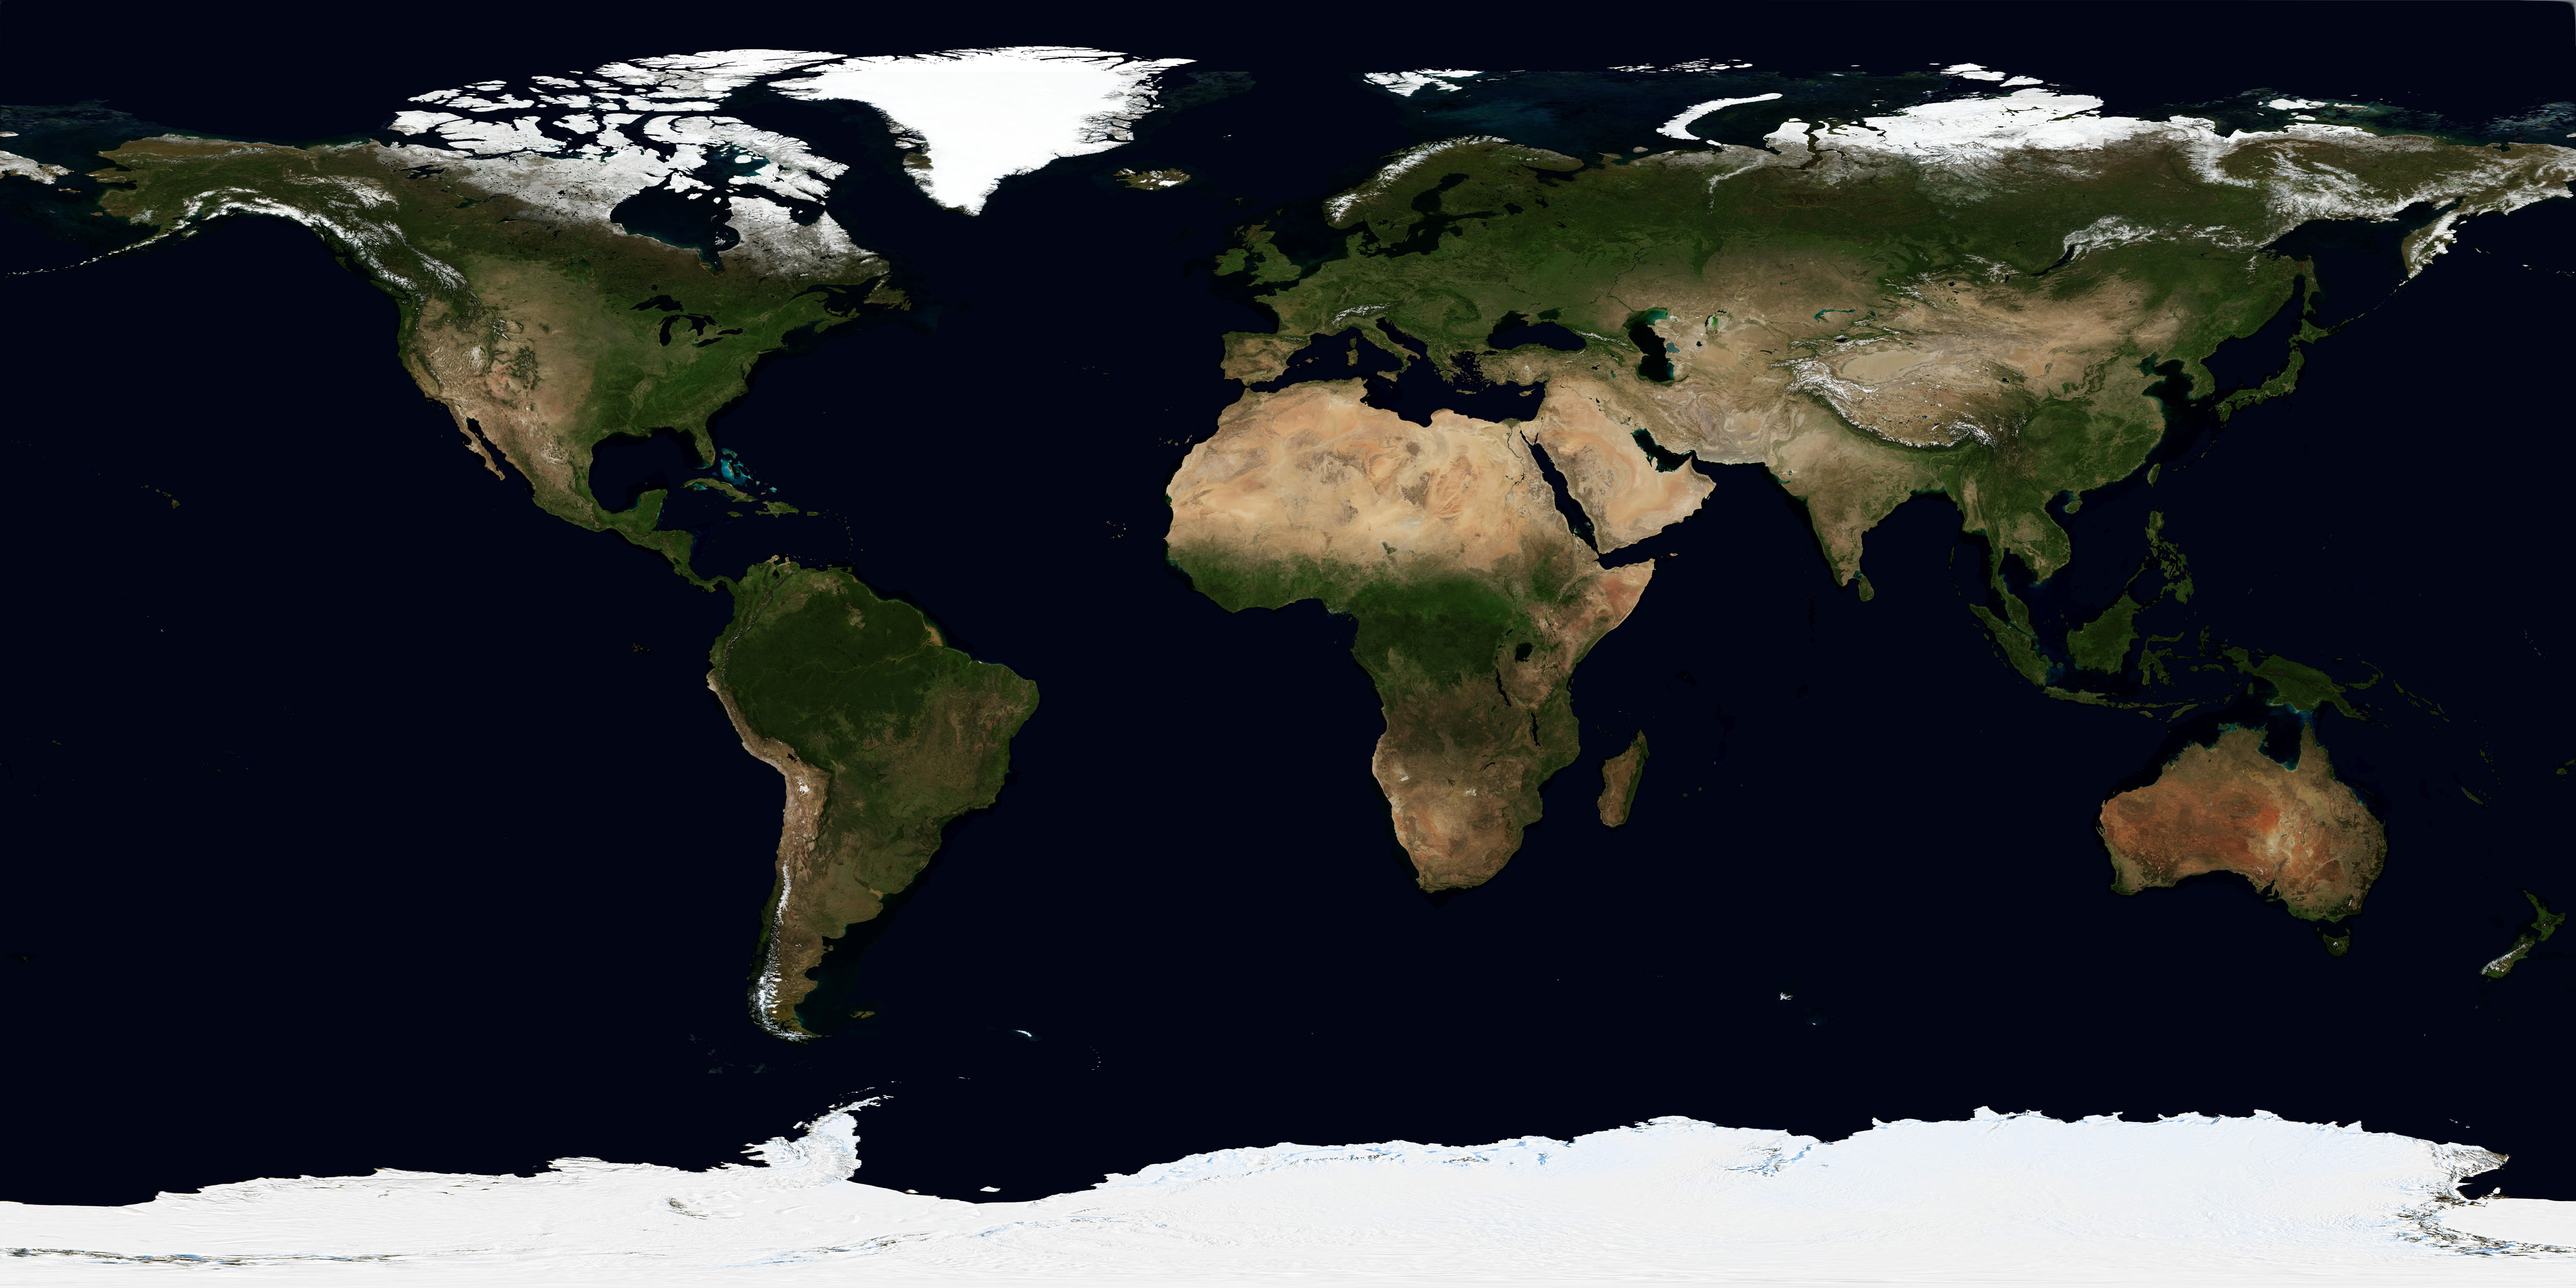
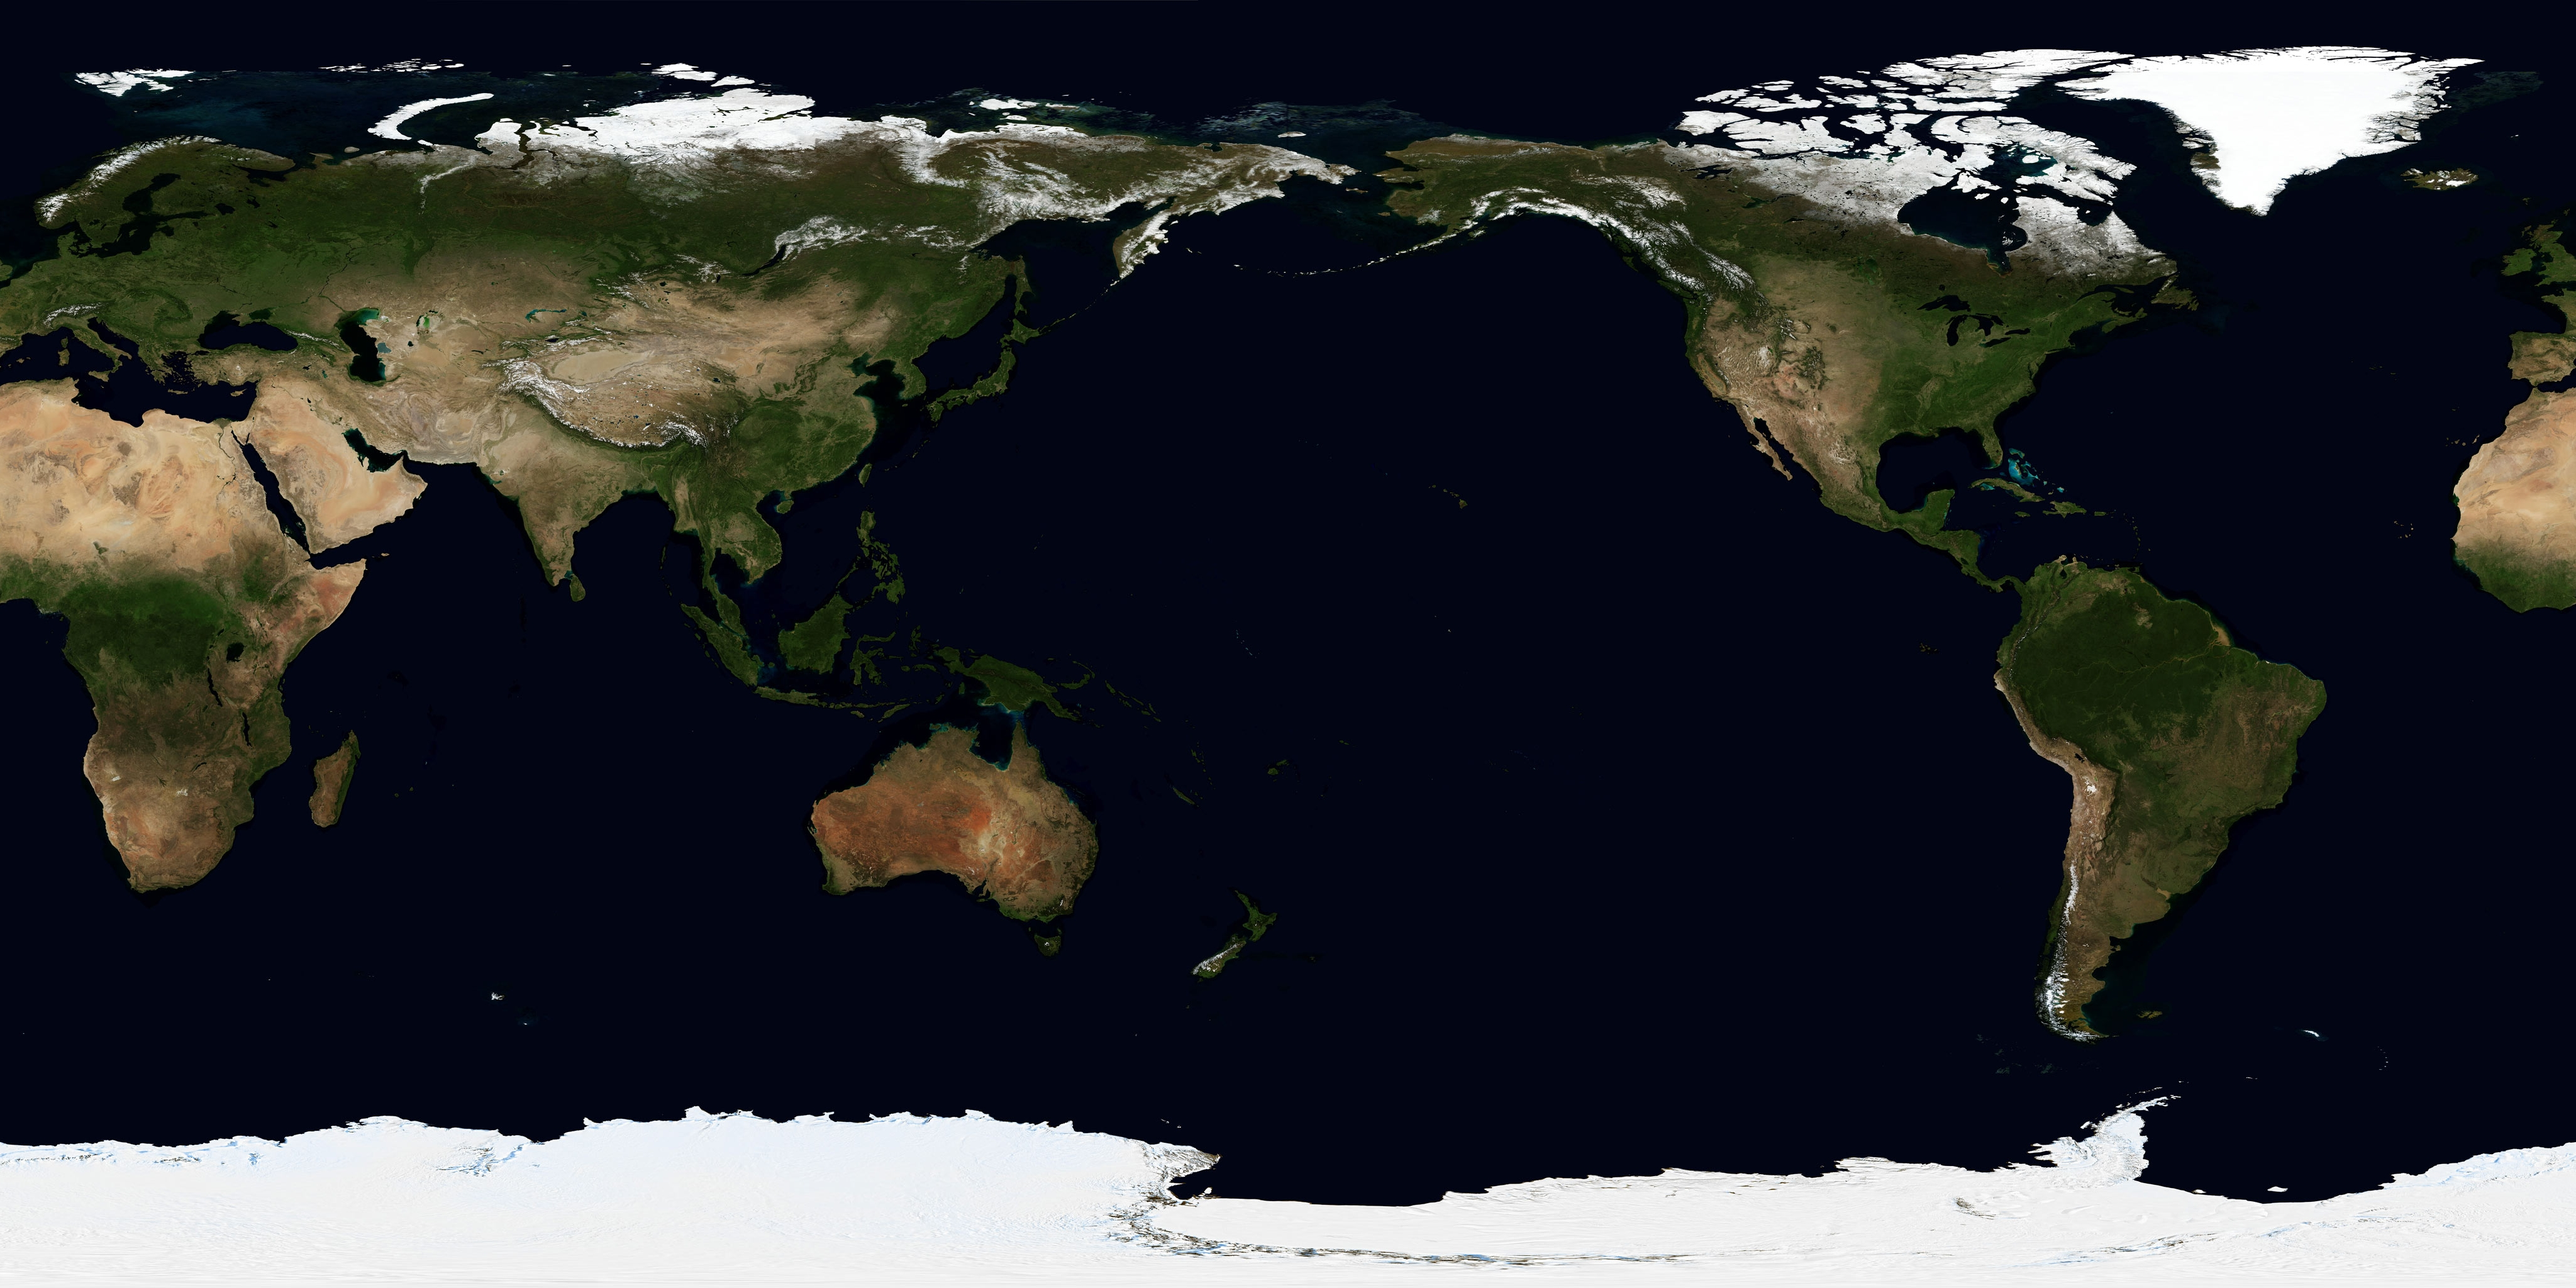
Added new earth texture to match equator with GMT.

diff --git a/views/public/universe.js b/views/public/universe.js
@@ -18,7 +18,7 @@ function draw() {
         background(0);
         //directionalLight(250, 250, 250, -dirX, -dirY, 0.25);
         texture(img)
-        sphere(100);
+        sphere(100, 200, 200);
         
         drawSatellites();
 
